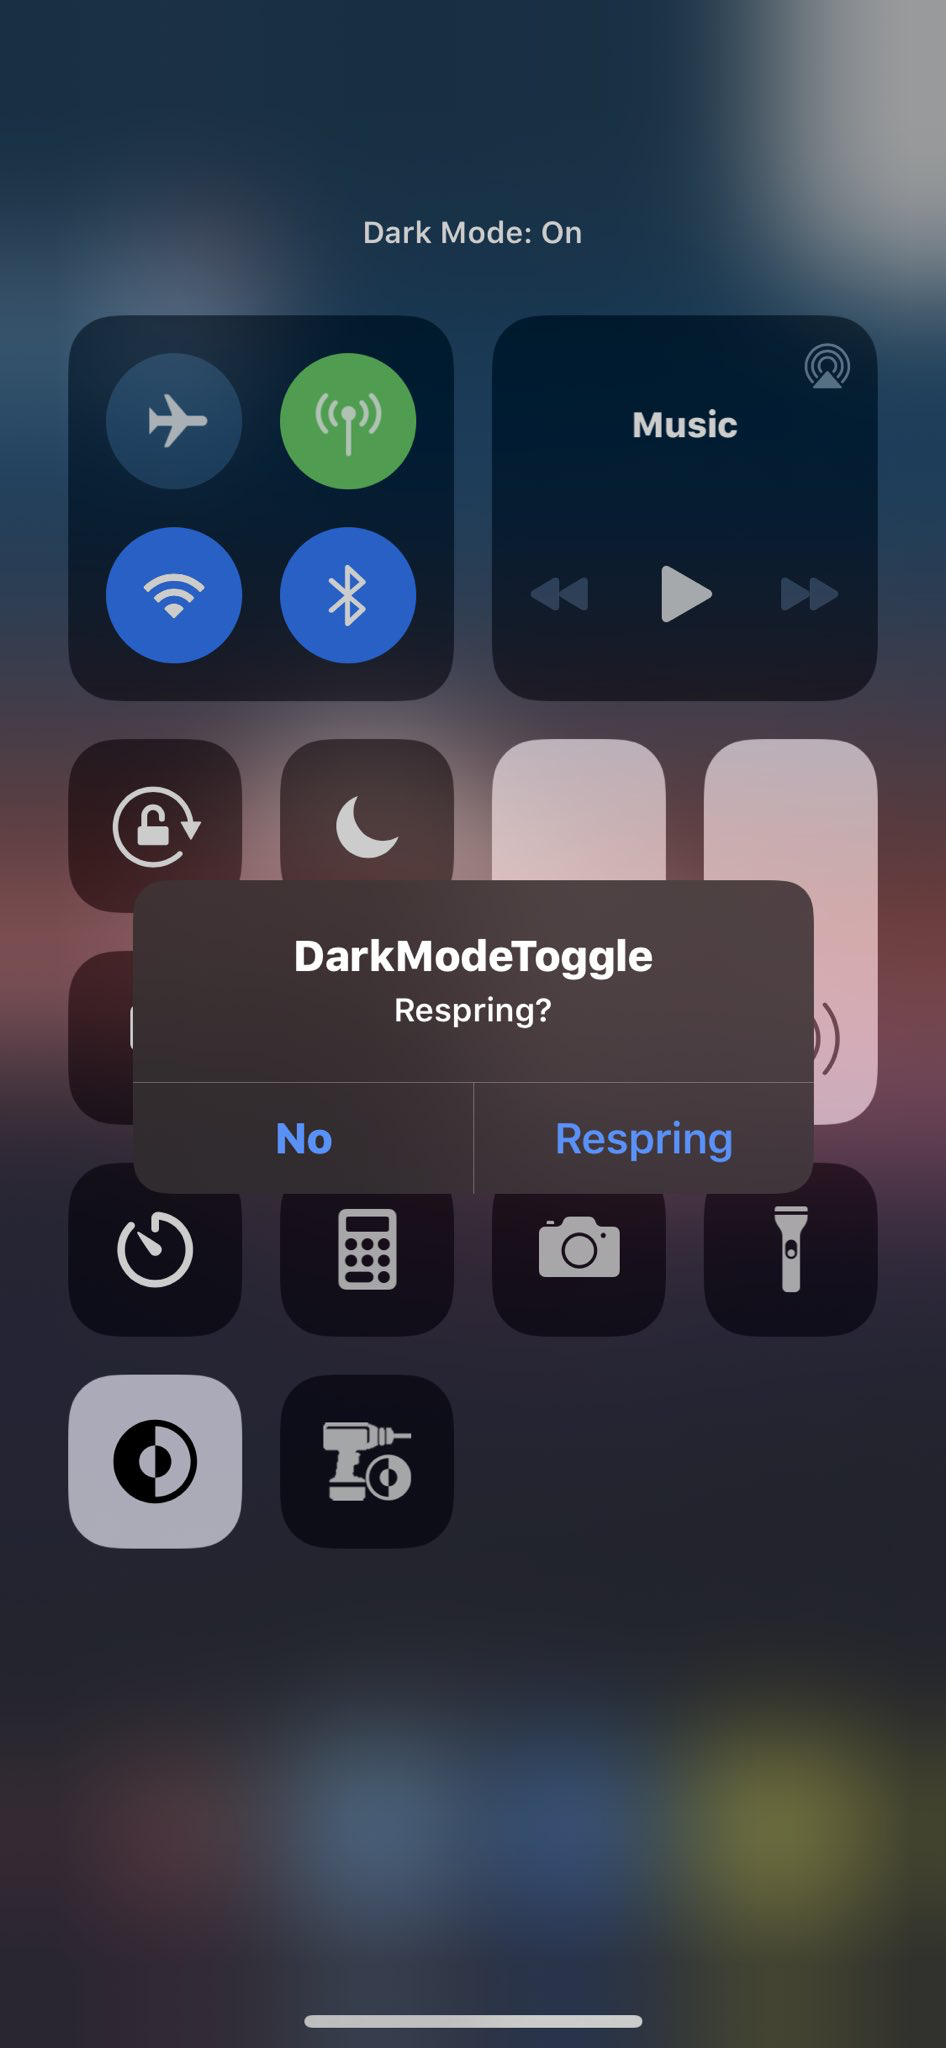
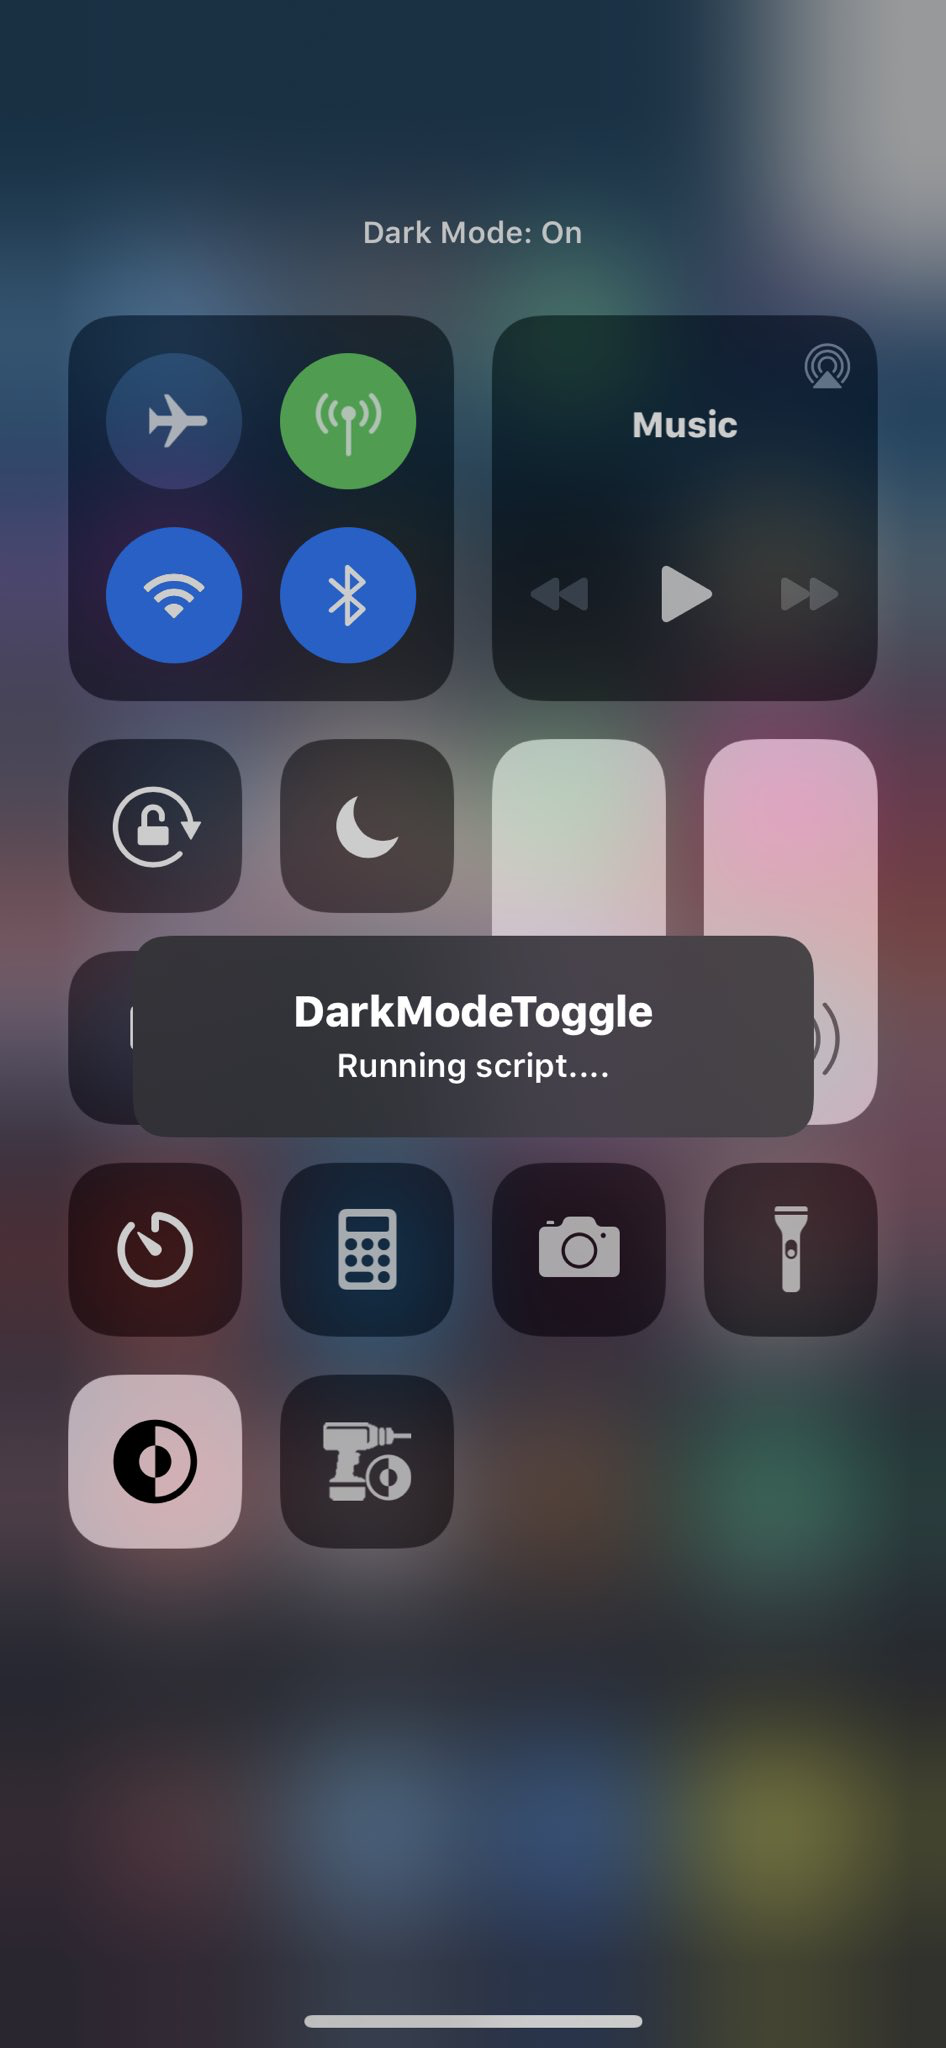
Updated DarkModeToggle

Changed region(s): [[0.0, 0.2188, 1.0, 0.8125], [0.3066, 0.0938, 0.7357, 0.2188], [0.0, 0.2188, 0.3066, 0.3125]]

diff --git a/depictions/darkmodetoggle/darkmodetoggle.html b/depictions/darkmodetoggle/darkmodetoggle.html
@@ -12,12 +12,13 @@
             
         <ul class="txt">
             <li>Configure preferences in Settings after installing</li>
-            <li>After toggling, you need to kill your apps or respring for your tweaks to turn on/off</li>
+            <li>After toggling, you need to kill your apps or respring for so your tweaks get reloaded</li>
             </ul>
         
         <p class="header">Features</p>
         <ul class="txt" style="margin-left: 50px; list-style-type: disc">
-            <li>Customize exactly which tweaks you want on/off in dark/light mode</li>
+            <li>Customize exactly which tweaks you want enabled/disabled in dark/light mode</li>
+            <li>Change preferences of other tweaks when toggling dark mode</li>
             <li>Works with the stock iOS 13 dark mode Control Center module</li>
             <li>Provides a custom Control Center module for iOS 12 and older (you can still use the custom module on iOS 13)</li>
             <li>Optionally run a shell script as root when toggling</li>
@@ -27,8 +28,23 @@
         <p class="header">Main uses</p>
         <ul class="txt" style="margin-left: 50px; list-style-type: disc">
             <li>Toggle app-specific dark mode tweaks with iOS 13's dark mode</li>
-            <li>On iOS 12, you can have a single toggle that turns all dark mode tweaks on/off</li>
+            <li>Change the appearance style of other tweaks with iOS 13's dark mode</li>
+            <li>On iOS 12, you can have a single toggle that turns all dark modes on/off</li>
             <li>When combined with WallpaperChanger and the "Run scripts" option, you can have custom appearance-aware wallpapers</li>
+            </ul>
+        
+        <p class="header">Supported tweaks for changing preferences</p>
+        <ul class="txt" style="margin-left: 50px; list-style-type: disc">
+            <li>CallBarXS</li>
+            <li>Complications</li>
+            <li>Grupi</li>
+            <li>Mot</li>
+            <li>PencilChargingIndicator</li>
+            <li>Ringer13</li>
+            <li>Tacitus</li>
+            <li>Ultrasound</li>
+            <li>XIIIHUD-Mute</li>
+            <li>Support for more tweaks can be added if you <a href="https://www.reddit.com/message/compose/?to=captinc37&subject=DarkModeToggle%20request" target="_blank" style="color: #797CFB">contact me</a></li>
             </ul>
         
         <p class="header" style="margin-top: 50px">Screenshots</p>
@@ -36,6 +52,14 @@
             
         <p class="header">Changelog</p>
         <ol class="txt" style="list-style-type: none">
+            <li>v1.1 - released 2/09/2020</li>
+            <ul class="txt" style="margin-left: 50px; list-style-type: disc">
+                <li>Added ability to toggle preferences of other tweaks with dark mode</li>
+                <li>Fixed the alert sometimes not being dark</li>
+                <li>Fixed scripts not running as root</li>
+                <li>Updated icons</li>
+                </ul>
+            <br>
             <li>v1.0 - released 1/26/2020</li>
             <ul class="txt" style="margin-left: 50px; list-style-type: disc">
                 <li>Initial release</li>
